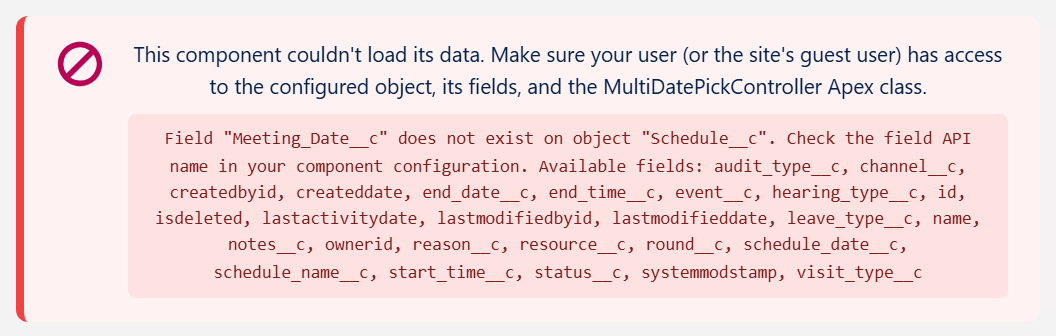
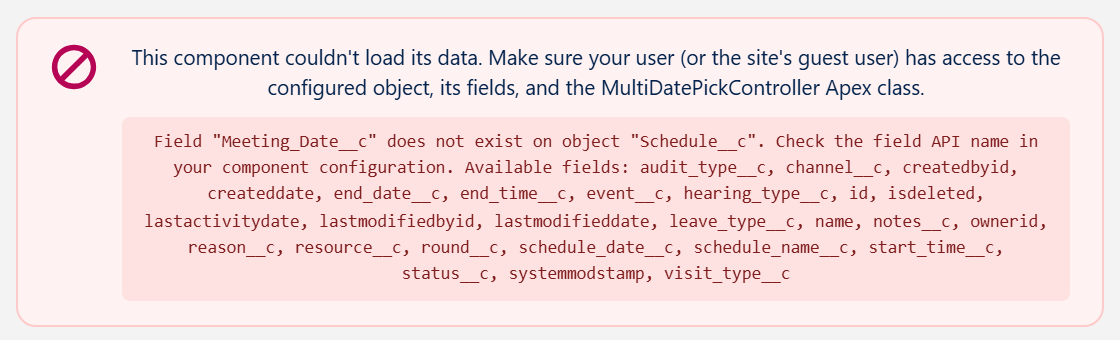
Retake the troubleshooting screenshots in the new design
Config banners without the edge stripe, full Configuration Required and
No resources notices, and each image's width and height corrected.

diff --git a/troubleshooting.html b/troubleshooting.html
@@ -157,7 +157,7 @@
                         <p class="ts-note">In a Flow, no Save button is expected: the flow's own Next button carries the dates.</p>
                     </div>
                     <figure>
-                        <img src="/images/troubleshooting/salesforce-calendar-no-save-button.png" alt="Salesforce date picker on an App Page with no parent record set: Clear All, Undo and Cancel buttons, but no Save button" width="828" height="1054" loading="lazy" data-zoomable>
+                        <img src="/images/troubleshooting/salesforce-calendar-no-save-button.png" alt="Salesforce date picker on an App Page with no parent record set: Clear All, Undo and Cancel buttons, but no Save button" width="824" height="1040" loading="lazy" data-zoomable>
                         <figcaption>Clear All, Undo and Cancel, but no Save.</figcaption>
                     </figure>
                 </article>
@@ -165,7 +165,7 @@
                 <article class="ts-card ts-wide" id="wrong-component">
                     <h2>Amber banner: "Wrong component for this configuration"</h2>
                     <figure>
-                        <img src="/images/troubleshooting/salesforce-calendar-wrong-component-banner.png" alt="Salesforce calendar showing the amber Wrong component for this configuration banner: a Booking configuration placed on the Date component" width="1120" height="234" loading="lazy" data-zoomable>
+                        <img src="/images/troubleshooting/salesforce-calendar-wrong-component-banner.png" alt="Salesforce calendar showing the amber Wrong component for this configuration banner: a Booking configuration placed on the Date component" width="1120" height="238" loading="lazy" data-zoomable>
                         <figcaption>A Booking config loaded into the Date component. The calendar stays hidden.</figcaption>
                     </figure>
                     <p class="ts-why"><b>Why:</b> <b>Config Name</b> points at a config saved for a different component.</p>
@@ -180,7 +180,7 @@
                 <article class="ts-card ts-wide" id="configuration-mismatch">
                     <h2>Amber banner: "Configuration mismatch"</h2>
                     <figure>
-                        <img src="/images/troubleshooting/salesforce-calendar-configuration-mismatch-banner.png" alt="Salesforce calendar showing the amber Configuration mismatch banner: the configuration expects Event records but the page is for a Resource record" width="1120" height="270" loading="lazy" data-zoomable>
+                        <img src="/images/troubleshooting/salesforce-calendar-configuration-mismatch-banner.png" alt="Salesforce calendar showing the amber Configuration mismatch banner: the configuration expects Event records but the page is for a Resource record" width="1120" height="274" loading="lazy" data-zoomable>
                         <figcaption>The config saves dates against an Event, but the page record is a Resource.</figcaption>
                     </figure>
                     <p class="ts-why"><b>Why:</b> the page's record, or the <b>Static Parent Record Id</b>, is a different object from the one the config's relationship field looks up to.</p>
@@ -195,7 +195,7 @@
                 <article class="ts-card ts-wide" id="could-not-load-data">
                     <h2>Red banner: "This component couldn't load its data"</h2>
                     <figure>
-                        <img src="/images/troubleshooting/salesforce-calendar-load-error-banner.png" alt="Salesforce calendar showing the red This component couldn't load its data banner, with the exact cause underneath: a date field name that does not exist on the object" width="1056" height="336" loading="lazy" data-zoomable>
+                        <img src="/images/troubleshooting/salesforce-calendar-load-error-banner.png" alt="Salesforce calendar showing the red This component couldn't load its data banner, with the exact cause underneath: a date field name that does not exist on the object" width="1120" height="340" loading="lazy" data-zoomable>
                         <figcaption>The gray box names the exact problem. Here, a date field that does not exist.</figcaption>
                     </figure>
                     <p class="ts-why"><b>Why:</b> a field or object name in the setup is wrong, or the user cannot read the object, its fields or the MultiDatePick Apex class.</p>
@@ -218,7 +218,7 @@
                         </ol>
                     </div>
                     <figure>
-                        <img src="/images/troubleshooting/salesforce-booking-configuration-required.png" alt="Salesforce booking calendar showing the Configuration Required panel listing four missing settings: resource object, booking object, booking date field and booking resource field" width="828" height="752" loading="lazy" data-zoomable>
+                        <img src="/images/troubleshooting/salesforce-booking-configuration-required.png" alt="Salesforce booking calendar showing the Configuration Required panel listing four missing settings: resource object, booking object, booking date field and booking resource field" width="824" height="992" loading="lazy" data-zoomable>
                         <figcaption>Each line is one property still to set.</figcaption>
                     </figure>
                 </article>
@@ -235,7 +235,7 @@
                         </ol>
                     </div>
                     <figure>
-                        <img src="/images/troubleshooting/salesforce-booking-no-resources-available.png" alt="Salesforce room booking calendar showing the No resources available notice because the resource filter matches no rooms" width="828" height="632" loading="lazy" data-zoomable>
+                        <img src="/images/troubleshooting/salesforce-booking-no-resources-available.png" alt="Salesforce room booking calendar showing the No resources available notice because the resource filter matches no rooms" width="1264" height="664" loading="lazy" data-zoomable>
                         <figcaption>The filter asks for rooms on a floor that has none.</figcaption>
                     </figure>
                 </article>
@@ -243,7 +243,7 @@
                 <article class="ts-card ts-wide" id="capacity-time-fields">
                     <h2>Amber banner: "Capacity needs both time fields"</h2>
                     <figure>
-                        <img src="/images/troubleshooting/salesforce-booking-capacity-time-fields-banner.png" alt="Salesforce booking component showing the amber Capacity needs both time fields banner because the booking start and end time fields are not set" width="1120" height="234" loading="lazy" data-zoomable>
+                        <img src="/images/troubleshooting/salesforce-booking-capacity-time-fields-banner.png" alt="Salesforce booking component showing the amber Capacity needs both time fields banner because the booking start and end time fields are not set" width="1120" height="238" loading="lazy" data-zoomable>
                         <figcaption>The calendar stays hidden, so no booking can skip the capacity limit.</figcaption>
                     </figure>
                     <p class="ts-why"><b>Why:</b> <b>Capacity Field</b> is set, but a booking start or end time field is empty, so capacity could not be enforced.</p>
@@ -265,7 +265,7 @@
                         </ol>
                     </div>
                     <figure>
-                        <img src="/images/troubleshooting/salesforce-calendar-load-existing-dates.png" alt="Salesforce calendar with Load Existing Dates turned on, showing a month of saved meeting room bookings colored by status" width="828" height="1148" loading="lazy" data-zoomable>
+                        <img src="/images/troubleshooting/salesforce-calendar-load-existing-dates.png" alt="Salesforce calendar with Load Existing Dates turned on, showing a month of saved meeting room bookings colored by status" width="824" height="1250" loading="lazy" data-zoomable>
                         <figcaption>With Load Existing Dates on, saved bookings show as soon as the calendar opens.</figcaption>
                     </figure>
                 </article>
@@ -281,7 +281,7 @@
                         </ol>
                     </div>
                     <figure>
-                        <img src="/images/troubleshooting/salesforce-calendar-maximum-dates-reached.png" alt="Salesforce date picker with three dates selected and the notice Maximum of 3 dates reached. Deselect dates to choose different ones." width="828" height="1246" loading="lazy" data-zoomable>
+                        <img src="/images/troubleshooting/salesforce-calendar-maximum-dates-reached.png" alt="Salesforce date picker with three dates selected and the notice Maximum of 3 dates reached. Deselect dates to choose different ones." width="824" height="1244" loading="lazy" data-zoomable>
                         <figcaption>Three dates picked with a limit of three.</figcaption>
                     </figure>
                 </article>
